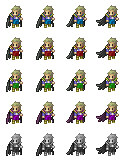
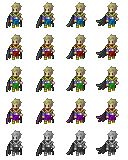
Fixed sorcerer-m

diff --git a/splitter.py b/splitter.py
@@ -361,6 +361,10 @@ HEAD_PARAMS = {
         'offset': [(0,3),]*4,
         'size': 'large',
         },
+    'sorcerer-m': {
+        'offset': [(0,3),]*4,
+        'size': 'large',
+        },
     'wyvern-lord': {
         'offset': [(-2,0),(-2,-2),(-2,-1),(-2,-1),],
         'size': 'small',
